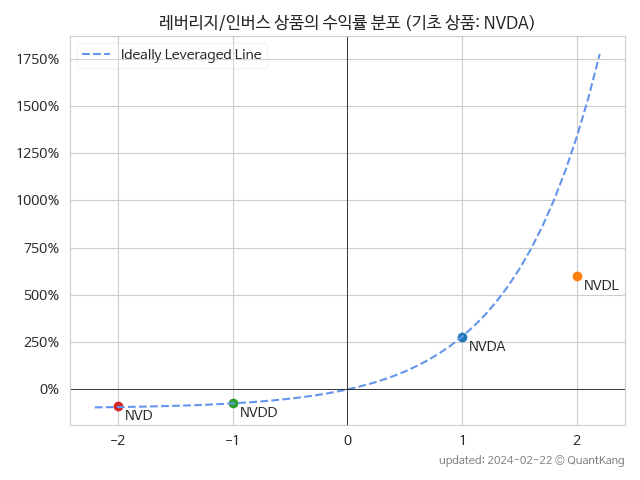
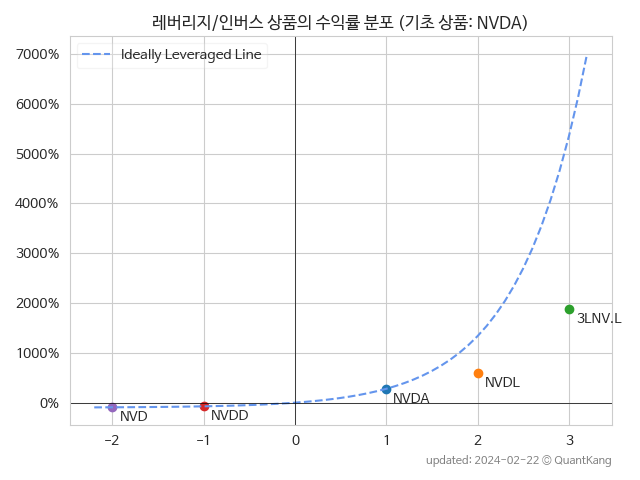
add 3lnv.l

diff --git a/_posts/lev/2024-02-23-3lnv.md b/_posts/lev/2024-02-23-3lnv.md
@@ -1,0 +1,71 @@
+---
+layout: single
+title: 3LNV.L 수익률과 비용 (NVDA 3x)
+excerpt: 3LNV.L의 1년 수익률은 1877.4%, 추정 비용은 50.2%입니다.
+header:
+  overlay_color: "#333"
+  show_overlay_excerpt: false
+toc: true
+categories:
+- 레버리지
+keywords: NVDA, 3LNV.L, 3LNV.L NVDA 비교
+---
+
+## 비교 상품 소개
+
+
+NVDA 상품의 일일 수익률을 3배로 추종하는 3LNV.L 상품의 최근 1년 성과를 살펴봅니다.
+
+
+
+
+
+| **종목** | **1년** | **편차** | **샤프** | **MDD** | **AvDD** |
+| :------------ | ------: | -----------: | -------: | ------: | -------: |
+| 3LNV.L | <span style="color: tomato">1877.4<small>%</small></span> | 151.5<small>%</small> | 12.40 | -51.5<small>%</small> | -14.1<small>%</small> |
+
+<!-- more -->
+
+
+![3LNV.L](/lev/images/3lnv.png){: .align-center}
+
+
+## 주요 가격 변동 지표<small>[^fn_price_metric]</small>
+
+
+| **종목** | **1년** | **편차** | **샤프** | **MDD** | **AvDD** |
+| :------------ | ------: | -----------: | -------: | ------: | -------: |
+| NVDA | <span style="color: tomato">241.1<small>%</small></span> | 46.7<small>%</small> | 5.16 | -18.3<small>%</small> | -4.2<small>%</small> |
+| Ideal<small>[^fn_lev_ideal]</small> | <span style="color: tomato">3869.4<small>%</small></span> | 154.9<small>%</small> | 24.97 | -45.4<small>%</small> | -11.4<small>%</small> |
+| I. daily<small>[^fn_lev_ideal_daily]</small> | <span style="color: tomato">2184.4<small>%</small></span> | 140.1<small>%</small> | 15.59 | -48.7<small>%</small> | -12.9<small>%</small> |
+| 3LNV.L | <span style="color: tomato">1877.4<small>%</small></span> | 151.5<small>%</small> | 12.40 | -51.5<small>%</small> | -14.1<small>%</small> |
+
+
+## 추정 비용<small>[^fn_lev_expense]</small><a id="expense"></a>
+
+3LNV.L 상품을 NVDA 상품의 3배 레버리지라 가정하고 분석한 결과입니다.
+
+![3LNV.L](/lev/images/3lnv_ideal.png){: .align-center}
+
+| **종목** | **변동성비용**[^fn_lev_vd_expense] | **금융비용**[^fn_lev_fn_expense] | **전체비용**[^fn_lev_tt_expense] |
+| :------------ | ------: | -----------: | -------: |
+| 3LNV.L | 42.4<small>%</small> | 13.4<small>%</small> | 50.2<small>%</small> |
+
+{% include /commons/ads/adsense.html %}
+
+
+
+## 관련 레버리지/인버스 상품의 수익률 분포
+
+NVDA 상품을 기초로 하는 타 레버리지/인버스 상품과 비교합니다.
+
+![NVDA](/lev/images/nvda_ideal.png){: .align-center}
+
+{% include lev/nvda_md.inc %}
+
+
+## 관련 정보
+
+- [레버리지/인버스 목록](/lev/){: .btn .btn--info}
+
+{% include commons/footnotes.md %}
